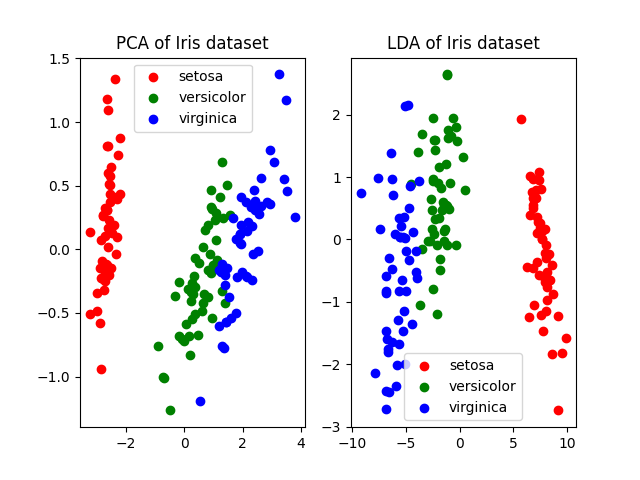
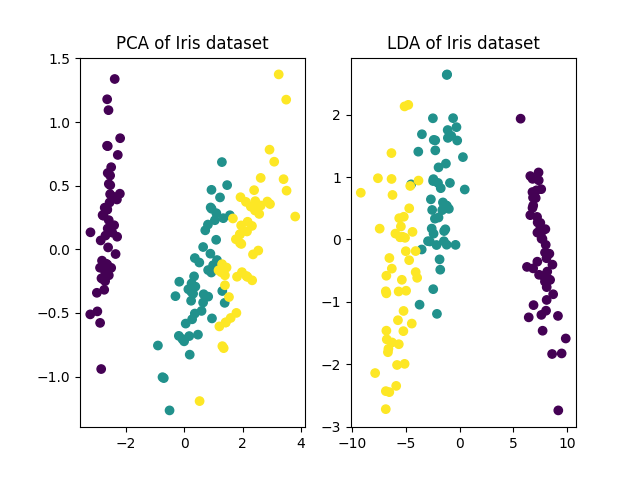
Simplify plotting loop in 10.py

diff --git a/10.py b/10.py
@@ -16,10 +16,9 @@ X_lda = lda.fit_transform(X, y)
 # Helper function to modularize the repetitive plotting
 def plot_scatter(data, title, position):
     plt.subplot(1, 2, position)
-    for c, i, target_name in zip(['r', 'g', 'b'], [0, 1, 2], iris.target_names):
-        plt.scatter(data[y == i, 0], data[y == i, 1], c=c, label=target_name)
+    # c=y automatically colors the points based on their class (0, 1, or 2)
+    plt.scatter(data[:, 0], data[:, 1], c=y)
     plt.title(title)
-    plt.legend()
 
 plot_scatter(X_pca, 'PCA of Iris dataset', 1)
 plot_scatter(X_lda, 'LDA of Iris dataset', 2)

diff --git a/explanation.md b/explanation.md
@@ -12,9 +12,9 @@
 
 ### Output
 ```text
-Starting state: 2.1770
-Local maximum found at x = 1.9770
-Objective value: 3.9995
+Starting state: 4.4532
+Local maximum found at x = 1.9532
+Objective value: 3.9978
 ```
 
 ## `2a.py`
@@ -85,10 +85,10 @@ The optimal path taken is: [0, 1, 3, 5]
 
 ### Output
 ```text
-Accuracy: 0.7318435754189944
+Accuracy: 0.7988826815642458
 Confusion Matrix:
- [[86 20]
- [28 45]]
+ [[88 21]
+ [15 55]]
 ```
 
 ## `7.py`
